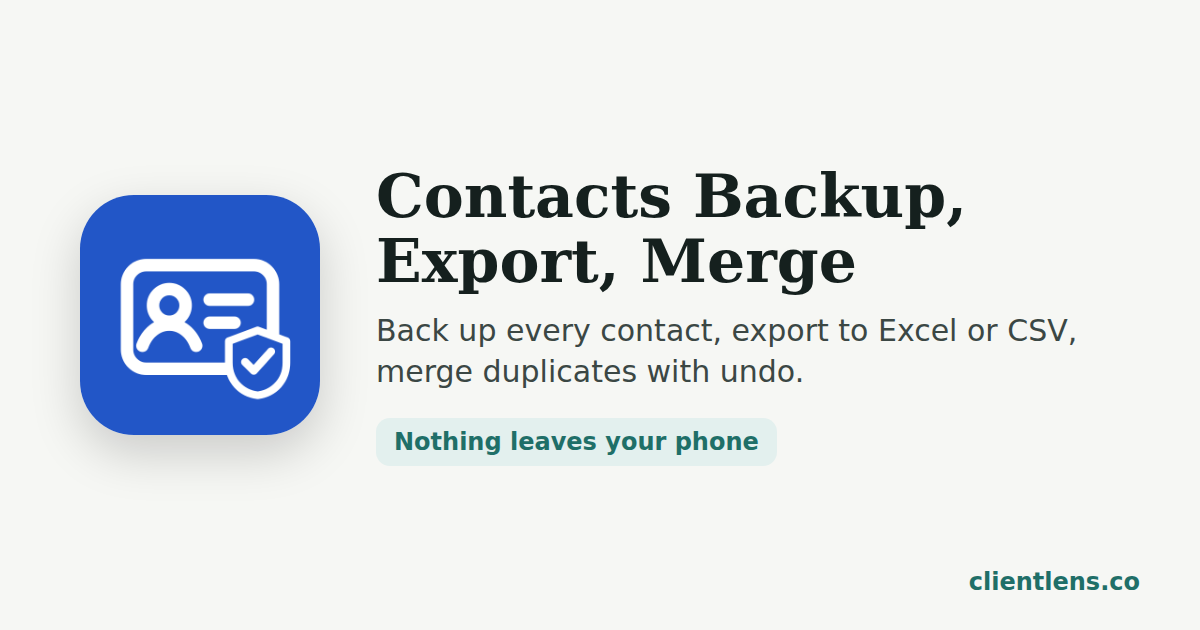
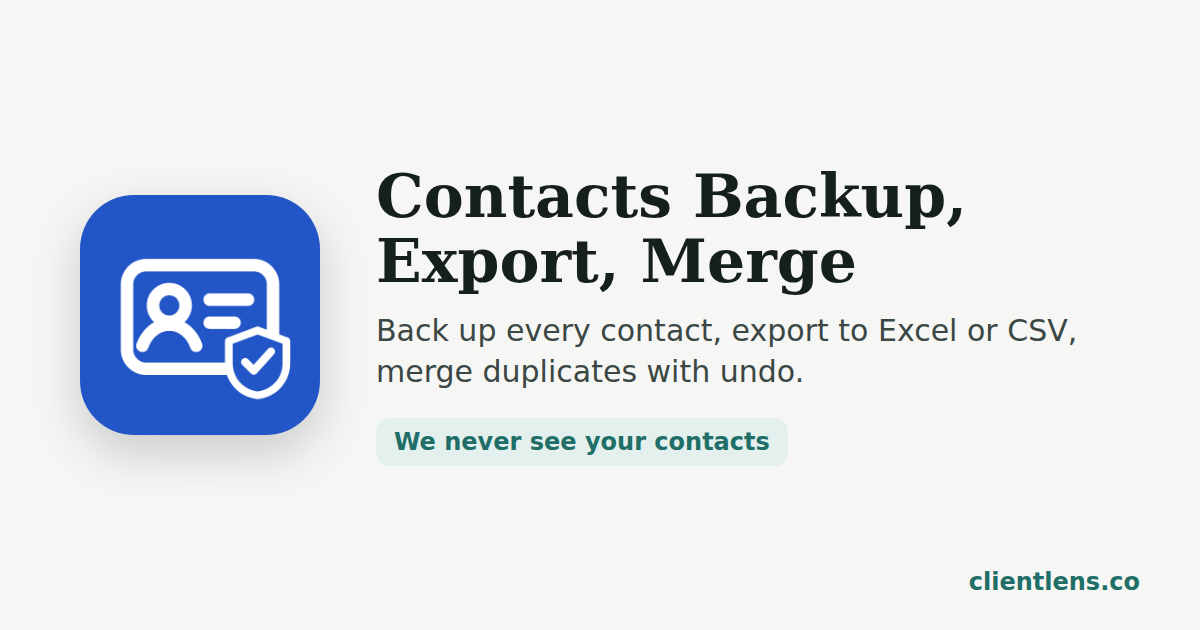
Contacts Backup pages: backups are included in the phone's own iCloud/Google backup
'Nothing leaves your phone' became 'We never see your contacts'; the
privacy policy now discloses device backups (security review item 2,
option b). Share image, llms files and sitemap dates updated.

Claude-Session: https://claude.ai/code/session_01BfimZbL1ZGWJ5cHQpuofge

Changed region(s): [[0.3083, 0.6635, 0.6475, 0.7238]]

diff --git a/contacts-backup/privacy/index.html b/contacts-backup/privacy/index.html
@@ -4,7 +4,7 @@
 <meta charset="utf-8">
 <meta name="viewport" content="width=device-width, initial-scale=1, viewport-fit=cover">
 <title>Privacy Policy · Contacts Backup, Export, Merge</title>
-<meta name="description" content="Privacy policy for Contacts Backup, Export, Merge by ClientLens. The app collects no data, has no account and no internet access; contacts stay on your phone.">
+<meta name="description" content="Privacy policy for Contacts Backup, Export, Merge by ClientLens. The app collects no data, has no account and no internet access; we never see your contacts.">
 <link rel="canonical" href="https://clientlens.co/contacts-backup/privacy/">
 <meta name="robots" content="index, follow, max-image-preview:large">
 <meta name="theme-color" content="#F6F7F4">
@@ -14,14 +14,14 @@
 <meta property="og:type" content="article">
 <meta property="og:site_name" content="ClientLens">
 <meta property="og:title" content="Privacy Policy · Contacts Backup, Export, Merge">
-<meta property="og:description" content="Privacy policy for Contacts Backup, Export, Merge by ClientLens. The app collects no data, has no account and no internet access; contacts stay on your phone.">
+<meta property="og:description" content="Privacy policy for Contacts Backup, Export, Merge by ClientLens. The app collects no data, has no account and no internet access; we never see your contacts.">
 <meta property="og:url" content="https://clientlens.co/contacts-backup/privacy/">
 <meta property="og:image" content="https://clientlens.co/assets/og-contacts-backup.png">
 <meta property="og:image:width" content="1200">
 <meta property="og:image:height" content="630">
 <meta name="twitter:card" content="summary_large_image">
 <meta name="twitter:title" content="Privacy Policy · Contacts Backup, Export, Merge">
-<meta name="twitter:description" content="Privacy policy for Contacts Backup, Export, Merge by ClientLens. The app collects no data, has no account and no internet access; contacts stay on your phone.">
+<meta name="twitter:description" content="Privacy policy for Contacts Backup, Export, Merge by ClientLens. The app collects no data, has no account and no internet access; we never see your contacts.">
 <meta name="twitter:image" content="https://clientlens.co/assets/og-contacts-backup.png">
 <script type="application/ld+json">
 {
@@ -55,7 +55,7 @@
       "@id": "https://clientlens.co/contacts-backup/privacy/",
       "url": "https://clientlens.co/contacts-backup/privacy/",
       "name": "Privacy Policy, Contacts Backup, Export, Merge",
-      "dateModified": "2026-10-20",
+      "dateModified": "2026-10-22",
       "about": {
         "@id": "https://clientlens.co/contacts-backup/#app"
       },
@@ -78,11 +78,11 @@
   <main class="doc">
     <p class="eyebrow">Contacts Backup, Export, Merge</p>
     <h1>Privacy policy</h1>
-    <p class="meta">Last updated: 20 October 2026</p>
+    <p class="meta">Last updated: 22 October 2026</p>
 
     <div class="promise">
       <strong>The short version</strong>
-      This app does not collect, send or store any of your data outside your phone. It has no account, no server and no internet access. Your contacts stay on your device unless you choose to share a file yourself.
+      We never receive your contacts. The app has no account, no server and no internet access. Your contacts stay on your device, in the app's backups, and in your phone's own iCloud or Google backup if you use one. They go anywhere else only when you share a file yourself.
     </div>
 
     <h2>What the app does with your contacts</h2>
@@ -92,12 +92,13 @@
       <li>create backup files (vCard) and exports (CSV, Excel, JSON) that you decide where to save or send;</li>
       <li>show you a preview before restoring contacts from a backup;</li>
       <li>find duplicate contacts and, when you confirm, merge them;</li>
-      <li>keep backups inside the app's private storage so you can compare and undo changes.</li>
+      <li>keep backups inside the app on your phone so you can compare and undo changes.</li>
     </ul>
     <p>The app changes your contacts only when you confirm a restore, a merge, a deletion of empty cards or a copy between accounts. It saves a backup of your contacts first, every time.</p>
 
     <h2>What leaves your device</h2>
-    <p>Nothing, unless you send it. When you choose a destination such as Files, iCloud Drive, Google Drive, AirDrop, Mail or Quick Share, the file goes to that app or service and its own privacy terms apply. The app contains no code that connects to the internet, and on Android it does not request internet access.</p>
+    <p><strong>Your phone's own backup.</strong> Like other app data, the app's backups are included in your iCloud or computer backup on iPhone, and in your Google backup on Android, if you have these turned on. They are stored in your own account with Apple or Google, not with us, under their privacy terms. You can turn device backup off in your phone's settings.</p>
+    <p><strong>Files you share.</strong> Nothing else leaves your device unless you send it. When you choose a destination such as Files, iCloud Drive, Google Drive, AirDrop, Mail or Quick Share, the file goes to that app or service and its own privacy terms apply. The app contains no code that connects to the internet, and on Android it does not request internet access.</p>
 
     <h2>Analytics, advertising and tracking</h2>
     <p>None. The app contains no analytics, advertising or crash-reporting tools. If you have turned on crash reports in your phone's settings, Apple or Google may receive them through their own systems; they never include contact data.</p>
@@ -109,13 +110,13 @@
     <p>The one-time Pro purchase is handled by Apple's App Store or Google Play. The app only learns that the purchase exists. We never see your payment details.</p>
 
     <h2>How long data is kept</h2>
-    <p>Backups stay in the app's private storage on your device until you delete them in History, until your "Keep backups" setting removes older ones, or until you delete the app.</p>
+    <p>Backups stay in the app on your device until you delete them in History, until your "Keep backups" setting removes older ones, or until you delete the app. Copies already in your iCloud or Google device backup follow that backup's own retention.</p>
 
     <h2>Children</h2>
     <p>The app is not directed at children under 13 and collects no data from anyone.</p>
 
     <h2>Your rights</h2>
-    <p>Because we collect no data, we hold nothing to show, correct or delete for you. Everything stays under your control on your device.</p>
+    <p>Because we collect no data, we hold nothing to show, correct or delete for you. Everything stays under your control: on your device and in your own device backups.</p>
 
     <h2>Changes to this policy</h2>
     <p>If this policy changes, the new version will be published on this page with a new date. Important changes will also be mentioned in the app's release notes.</p>

diff --git a/contacts-backup/index.html b/contacts-backup/index.html
@@ -4,7 +4,7 @@
 <meta charset="utf-8">
 <meta name="viewport" content="width=device-width, initial-scale=1, viewport-fit=cover">
 <title>Contacts Backup, Export, Merge · Back up iPhone contacts, export to Excel, merge duplicates</title>
-<meta name="description" content="Back up every iPhone contact to a vCard file, export contacts to Excel or CSV, restore with a preview and merge duplicate contacts with undo. No account, no internet access: nothing leaves your phone.">
+<meta name="description" content="Back up every iPhone contact to a vCard file, export contacts to Excel or CSV, restore with a preview and merge duplicate contacts with undo. No account, no internet access: we never see your contacts.">
 <link rel="canonical" href="https://clientlens.co/contacts-backup/">
 <meta name="robots" content="index, follow, max-image-preview:large">
 <meta name="theme-color" content="#F6F7F4">
@@ -14,7 +14,7 @@
 <meta property="og:type" content="website">
 <meta property="og:site_name" content="ClientLens">
 <meta property="og:title" content="Contacts Backup, Export, Merge">
-<meta property="og:description" content="Back up every contact, export to Excel or CSV, merge duplicates with undo. Nothing leaves your phone.">
+<meta property="og:description" content="Back up every contact, export to Excel or CSV, merge duplicates with undo. We never see your contacts.">
 <meta property="og:url" content="https://clientlens.co/contacts-backup/">
 <meta property="og:image" content="https://clientlens.co/assets/og-contacts-backup.png">
 <meta property="og:image:width" content="1200">
@@ -22,7 +22,7 @@
 <meta property="og:image:alt" content="Contacts Backup, Export, Merge app icon with a summary of its features.">
 <meta name="twitter:card" content="summary_large_image">
 <meta name="twitter:title" content="Contacts Backup, Export, Merge">
-<meta name="twitter:description" content="Back up every contact, export to Excel or CSV, merge duplicates with undo. Nothing leaves your phone.">
+<meta name="twitter:description" content="Back up every contact, export to Excel or CSV, merge duplicates with undo. We never see your contacts.">
 <meta name="twitter:image" content="https://clientlens.co/assets/og-contacts-backup.png">
 <script type="application/ld+json">
 {
@@ -35,7 +35,7 @@
       "alternateName": ["Contacts Backup", "Contacts Backup Export Merge"],
       "url": "https://clientlens.co/contacts-backup/",
       "image": "https://clientlens.co/assets/contacts-backup-icon.png",
-      "description": "Back up every contact to a standard vCard file, export contacts to Excel, CSV or JSON, restore with a preview, and merge duplicate contacts with undo. The app has no account and no internet access; contacts never leave the phone unless the user shares a file.",
+      "description": "Back up every contact to a standard vCard file, export contacts to Excel, CSV or JSON, restore with a preview, and merge duplicate contacts with undo. The app has no account and no internet access, so the developer never receives contact data. Backups stay in the app and in the user's own iCloud or Google device backup.",
       "applicationCategory": "UtilitiesApplication",
       "operatingSystem": "iOS, Android",
       "inLanguage": "en",
@@ -103,8 +103,8 @@
     <p>Contacts Backup, Export, Merge is an iPhone and Android app that saves a complete copy of your contacts as a standard vCard file, exports them to Excel or CSV, and cleans up duplicate contacts safely. Use it before switching phones, after a sync mistake, or whenever you want a copy of your address book that you control.</p>
 
     <div class="promise">
-      <strong>Nothing leaves your phone.</strong>
-      No account, no server, no ads, no analytics. The app has no internet access at all. Your contacts go somewhere only when you send a file yourself.
+      <strong>We never see your contacts.</strong>
+      No account, no server, no ads, no analytics. The app has no internet access at all. Backups are kept in the app on your phone, and are included in your phone's own iCloud or Google backup if you use one.
     </div>
 
     <h2>What it does</h2>

diff --git a/contacts-backup/support/index.html b/contacts-backup/support/index.html
@@ -59,7 +59,7 @@
           "name": "Where are my backups stored?",
           "acceptedAnswer": {
             "@type": "Answer",
-            "text": "Inside the app's private storage on your phone, listed in History. To keep a copy somewhere else, open a backup and tap Share this backup, then save it to Files, iCloud Drive, Google Drive or send it to yourself."
+            "text": "In the app on your phone, listed in History. They are also included in your phone's own iCloud or Google backup if you use one, so they move to a new phone restored from that backup. To keep a separate copy, open a backup and tap Share this backup, then save it to Files, iCloud Drive, Google Drive or send it to yourself."
           }
         },
         {
@@ -149,7 +149,7 @@
 
     <h2>Common questions</h2>
     <div class="faq">
-      <details><summary>Where are my backups stored?</summary><p>Inside the app's private storage on your phone, listed in History. To keep a copy somewhere else, open a backup and tap Share this backup, then save it to Files, iCloud Drive, Google Drive or send it to yourself.</p></details>
+      <details><summary>Where are my backups stored?</summary><p>In the app on your phone, listed in History. They are also included in your phone's own iCloud or Google backup if you use one, so they move to a new phone restored from that backup. To keep a separate copy, open a backup and tap Share this backup, then save it to Files, iCloud Drive, Google Drive or send it to yourself.</p></details>
       <details><summary>How do I restore just one contact?</summary><p>Open History and tap a backup made before the contact was deleted or changed. Under the comparison, open the Deleted tab and tap Bring back. Or tap Restore from this backup, then Select none, and tick only that contact.</p></details>
       <details><summary>Will restoring delete anything?</summary><p>No. Restore only adds contacts that are missing and updates ones that changed. Contacts added after the backup stay. A fresh backup of your current contacts is always saved first, so you can undo a restore from History.</p></details>
       <details><summary>Why does the app show fewer contacts than cards?</summary><p>When the same person is saved in more than one account, for example iCloud and Gmail, the Contacts app links those cards and shows one contact. The app shows that same contact count, and mentions how many cards make them up.</p></details>
